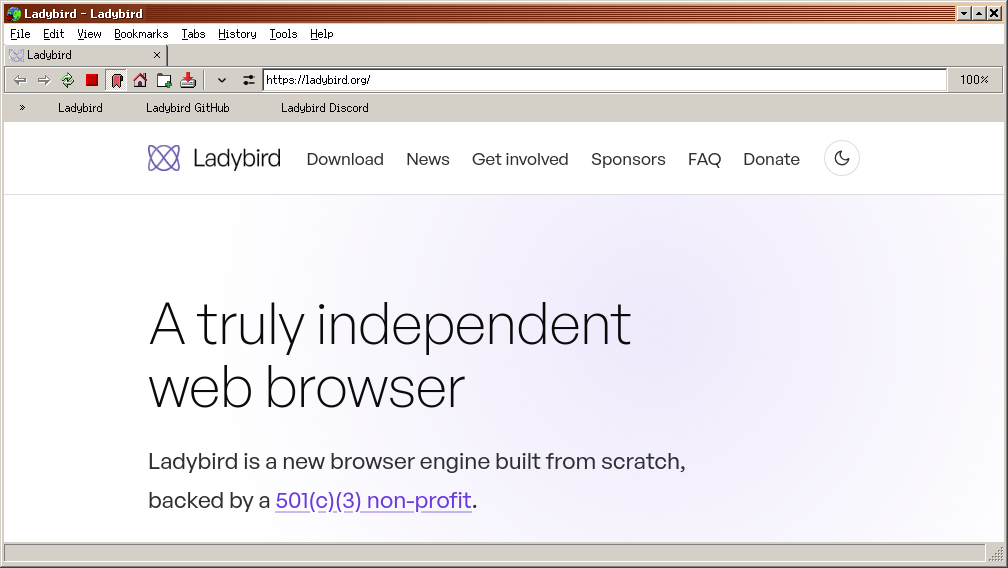
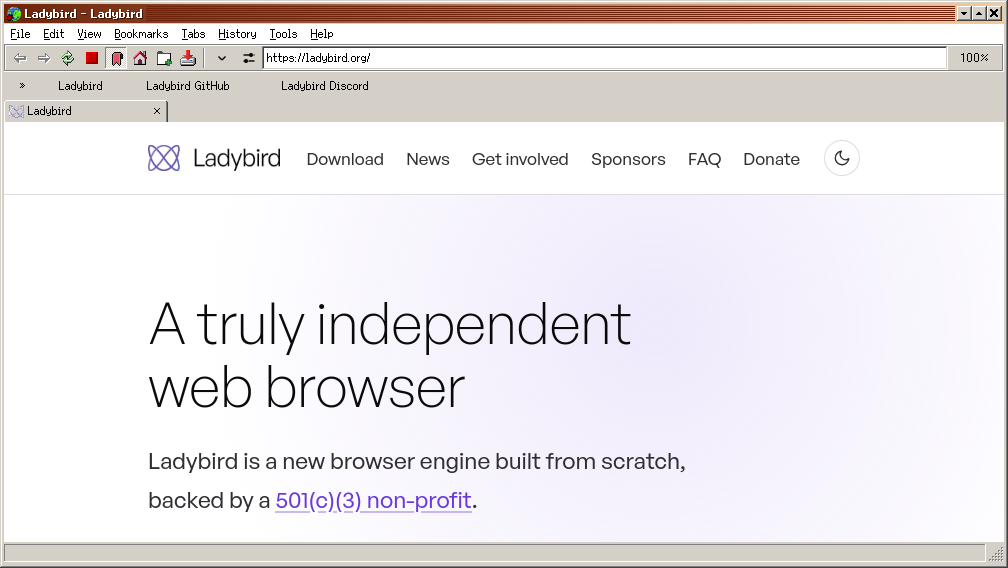
Place tab strip below the bookmarks bar and update screenshot
- Lift BrowserTab's URL toolbar and bookmarks bar into a dedicated top_chrome()
  widget hosted by BrowserWindow above GUI::TabWidget so the chrome order is
  Menu bar -> URL toolbar -> Bookmarks bar -> Tabs -> Page content
- Attach autocomplete overlay to the window's main widget so it floats over
  both the bookmarks bar and tab strip
- Fill top chrome and bookmarks bar backgrounds and repaint cleanly on toggle
- Update docs/ladybird-sde.png with the new layout

Changed region(s): [[0.0, 0.0599, 1.0, 0.2095]]

diff --git a/UI/LibGUI/BrowserTab.cpp b/UI/LibGUI/BrowserTab.cpp
@@ -175,12 +175,16 @@ static SiteIdentity site_identity_for_url(String const& url)
 BrowserTab::BrowserTab(EngineClient& engine, GUI::Window& window, GUI::Action& back_action, GUI::Action& forward_action, GUI::Action& reload_action, GUI::Action& stop_action, GUI::Action& bookmark_action, GUI::Action& home_action, GUI::Action& new_tab_action, GUI::Action& downloads_action)
     : m_engine(engine)
     , m_root(GUI::Widget::construct())
+    , m_top_chrome(GUI::Widget::construct())
 {
     m_title = "New Tab"_string;
 
     m_root->set_layout<GUI::VerticalBoxLayout>(GUI::Margins { 0 }, 0);
+    m_top_chrome->set_fill_with_background_color(true);
+    m_top_chrome->set_layout<GUI::VerticalBoxLayout>(GUI::Margins { 0 }, 0);
+    m_top_chrome->set_preferred_height(GUI::SpecialDimension::Fit);
 
-    auto& toolbar_container = m_root->add<GUI::ToolbarContainer>();
+    auto& toolbar_container = m_top_chrome->add<GUI::ToolbarContainer>();
     m_toolbar = toolbar_container.add<GUI::Toolbar>();
 
     m_toolbar->add_action(back_action);
@@ -223,7 +227,8 @@ BrowserTab::BrowserTab(EngineClient& engine, GUI::Window& window, GUI::Action& b
     };
     m_site_button = site_button;
 
-    m_bookmarks_bar = m_root->add<GUI::Widget>();
+    m_bookmarks_bar = m_top_chrome->add<GUI::Widget>();
+    m_bookmarks_bar->set_fill_with_background_color(true);
     m_bookmarks_bar->set_fixed_height(28);
     m_bookmarks_bar->set_layout<GUI::HorizontalBoxLayout>(GUI::Margins { 4 }, 4);
     m_bookmarks_bar->set_visible(false);
@@ -485,13 +490,19 @@ BrowserTab::BrowserTab(EngineClient& engine, GUI::Window& window, GUI::Action& b
 
     // The suggestion list is an in-window overlay, not a separate window. It
     // cannot take keyboard focus from the location box or float above other
-    // applications when the browser is minimized or covered. Removing it from
-    // the root layout lets it float over the bookmark bar and page.
-    m_root->add_child(*m_autocomplete_overlay);
-    if (m_root->layout())
-        m_root->layout()->remove_widget(*m_autocomplete_overlay);
+    // applications when the browser is minimized or covered. Attaching it to
+    // the window's main widget and removing it from layout lets it float over
+    // the bookmark bar, tab strip, and page.
+    if (auto* overlay_parent = window.main_widget()) {
+        overlay_parent->add_child(*m_autocomplete_overlay);
+        if (overlay_parent->layout())
+            overlay_parent->layout()->remove_widget(*m_autocomplete_overlay);
+    } else {
+        m_root->add_child(*m_autocomplete_overlay);
+        if (m_root->layout())
+            m_root->layout()->remove_widget(*m_autocomplete_overlay);
+    }
 
-    (void)window;
     set_zoom_level(1.0);
     update_site_button();
 }
@@ -502,6 +513,12 @@ BrowserTab::~BrowserTab()
         m_autocomplete_timer->stop();
     if (m_autocomplete_hide_timer)
         m_autocomplete_hide_timer->stop();
+    if (m_autocomplete_overlay) {
+        if (auto* parent = m_autocomplete_overlay->parent_widget())
+            parent->remove_child(*m_autocomplete_overlay);
+    }
+    if (auto* parent = m_top_chrome->parent_widget())
+        parent->remove_child(*m_top_chrome);
     auto close_aux_window = [](RefPtr<GUI::Window>& aux) {
         if (!aux)
             return;
@@ -728,12 +745,28 @@ void BrowserTab::set_bookmarks(Vector<BookmarkEntry> const& bookmarks)
 
     m_has_bookmarks = !bookmarks.is_empty();
     m_bookmarks_bar->set_visible(m_bookmarks_bar_visible && m_has_bookmarks);
+    m_top_chrome->invalidate_layout();
+    if (auto* parent = m_top_chrome->parent_widget())
+        parent->invalidate_layout();
+    if (auto* window = m_top_chrome->window()) {
+        if (auto* main_widget = window->main_widget())
+            main_widget->do_layout();
+        window->update();
+    }
 }
 
 void BrowserTab::set_bookmarks_bar_visible(bool visible)
 {
     m_bookmarks_bar_visible = visible;
     m_bookmarks_bar->set_visible(visible && m_has_bookmarks);
+    m_top_chrome->invalidate_layout();
+    if (auto* parent = m_top_chrome->parent_widget())
+        parent->invalidate_layout();
+    if (auto* window = m_top_chrome->window()) {
+        if (auto* main_widget = window->main_widget())
+            main_widget->do_layout();
+        window->update();
+    }
 }
 
 void BrowserTab::set_bookmarked(bool bookmarked)
@@ -990,12 +1023,15 @@ void BrowserTab::set_autocomplete_results(u64 request_id, JsonArray const& items
     else
         clear_inline_completion();
 
+    auto* overlay_parent = m_autocomplete_overlay->parent_widget();
+    if (!overlay_parent)
+        overlay_parent = m_root.ptr();
     auto location_rect = m_location_box->screen_relative_rect();
-    auto root_rect = m_root->screen_relative_rect();
-    auto x = max(0, location_rect.x() - root_rect.x());
-    auto y = max(0, location_rect.bottom() - root_rect.y());
-    auto available_width = max(1, m_root->width() - x);
-    auto available_height = max(1, m_root->height() - y - (m_statusbar ? m_statusbar->height() : 0));
+    auto parent_rect = overlay_parent->screen_relative_rect();
+    auto x = max(0, location_rect.x() - parent_rect.x());
+    auto y = max(0, location_rect.bottom() - parent_rect.y());
+    auto available_width = max(1, overlay_parent->width() - x);
+    auto available_height = max(1, overlay_parent->height() - y - (m_statusbar ? m_statusbar->height() : 0));
     auto width = min(max(location_rect.width(), 420), available_width);
     auto height = min(300, m_autocomplete_model->row_count() * 24 + 4);
     height = min(height, available_height);

diff --git a/UI/LibGUI/BrowserWindow.cpp b/UI/LibGUI/BrowserWindow.cpp
@@ -144,6 +144,13 @@ ErrorOr<void> BrowserWindow::initialize(Vector<InitialTab> initial_tabs, Optiona
     auto main_widget = m_window->set_main_widget<GUI::Widget>();
     main_widget->set_layout<GUI::VerticalBoxLayout>(GUI::Margins {}, 0);
 
+    // Top-level chrome sits above the tab strip: URL toolbar + bookmarks bar,
+    // followed by the tab bar right above the page content.
+    m_chrome_host = main_widget->add<GUI::Widget>();
+    m_chrome_host->set_fill_with_background_color(true);
+    m_chrome_host->set_layout<GUI::VerticalBoxLayout>(GUI::Margins {}, 0);
+    m_chrome_host->set_preferred_height(GUI::SpecialDimension::Fit);
+
     m_devtools_bar = main_widget->add<GUI::Widget>();
     m_devtools_bar->set_fixed_height(30);
     m_devtools_bar->set_fill_with_background_color(true);
@@ -777,6 +784,7 @@ BrowserTab& BrowserWindow::add_tab(String const& url, bool activate, bool reques
     if (activate)
         m_tab_widget->set_active_widget(tab_pointer->root().ptr());
 
+    sync_active_tab_chrome();
     update_action_state();
     update_window_title();
     rebuild_tabs_menu();
@@ -815,6 +823,7 @@ void BrowserWindow::remove_tab(BrowserTab& tab)
     });
     m_tab_widget->remove_widget(*root);
 
+    sync_active_tab_chrome();
     update_action_state();
     update_window_title();
     rebuild_tabs_menu();
@@ -883,11 +892,44 @@ bool BrowserWindow::tab_is_live(BrowserTab const* tab) const
     return false;
 }
 
+void BrowserWindow::sync_active_tab_chrome()
+{
+    if (!m_chrome_host)
+        return;
+
+    auto* active = active_tab();
+    auto* wanted = active ? active->top_chrome().ptr() : nullptr;
+
+    Vector<NonnullRefPtr<GUI::Widget>> existing;
+    bool already_attached = false;
+    m_chrome_host->for_each_child_widget([&](GUI::Widget& child) {
+        if (&child == wanted)
+            already_attached = true;
+        else
+            existing.append(child);
+        return IterationDecision::Continue;
+    });
+    for (auto& child : existing)
+        m_chrome_host->remove_child(*child);
+
+    if (wanted && !already_attached)
+        m_chrome_host->add_child(*wanted);
+
+    m_chrome_host->invalidate_layout();
+    if (auto* main_widget = m_window ? m_window->main_widget() : nullptr) {
+        main_widget->invalidate_layout();
+        main_widget->do_layout();
+    }
+    if (m_window)
+        m_window->update();
+}
+
 void BrowserWindow::activate_tab(BrowserTab& tab)
 {
     if (m_reordering_tabs)
         return;
     ensure_tab_loaded(tab);
+    sync_active_tab_chrome();
     if (tab.is_attached())
         m_engine->activate_tab(tab.tab_id(), m_id);
     // A background tab may have received only damage updates. Repaint the

diff --git a/UI/LibGUI/BrowserTab.h b/UI/LibGUI/BrowserTab.h
@@ -57,6 +57,7 @@ public:
     ~BrowserTab();
 
     NonnullRefPtr<GUI::Widget> root() const { return m_root; }
+    NonnullRefPtr<GUI::Widget> top_chrome() const { return m_top_chrome; }
     WebContentView& web_view() const { return *m_web_view; }
 
     u64 tab_id() const { return m_tab_id; }
@@ -167,6 +168,7 @@ private:
 
     EngineClient& m_engine;
     NonnullRefPtr<GUI::Widget> m_root;
+    NonnullRefPtr<GUI::Widget> m_top_chrome;
     RefPtr<GUI::Toolbar> m_toolbar;
     RefPtr<GUI::Button> m_site_button;
     RefPtr<Gfx::Bitmap const> m_tabs_icon;

diff --git a/UI/LibGUI/BrowserWindow.h b/UI/LibGUI/BrowserWindow.h
@@ -101,6 +101,7 @@ private:
     bool tab_is_live(BrowserTab const*) const;
 
     void activate_tab(BrowserTab&);
+    void sync_active_tab_chrome();
     void update_window_title();
     void update_action_state();
     void update_bookmark_action();
@@ -146,6 +147,7 @@ private:
     u64 m_id { 0 };
     u64 m_session_window_id { 0 };
     RefPtr<GUI::Window> m_window;
+    RefPtr<GUI::Widget> m_chrome_host;
     RefPtr<GUI::TabWidget> m_tab_widget;
 
     RefPtr<GUI::Action> m_back_action;
